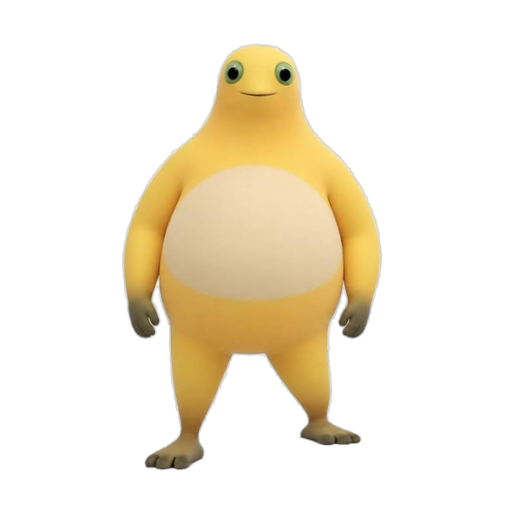
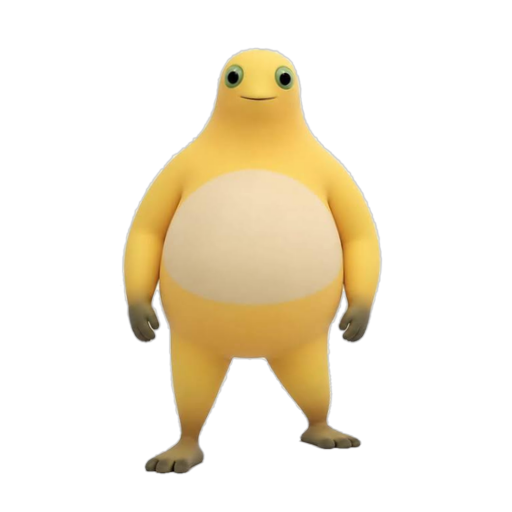
fix(frames): plant the support foot so idle and walk stop floating
The lowest opaque pixel drifted between 468 and 478 across idle and walk,
so the whole sprite bobbed up and down instead of the body moving over a
planted foot.

- Add a grounding pass to tools/frames/generate.py: whole-pixel
  translation that anchors every idle/walk frame at y=474 (idempotent,
  lossless, keeps the lateral waddle).
- Extend the frame-pack test to pin the support foot for those actions.

diff --git a/src/frame-pack.test.ts b/src/frame-pack.test.ts
@@ -154,6 +154,16 @@ describe("frame pack", () => {
     }
   });
 
+  it("plants the support foot for the grounded actions", () => {
+    for (const action of ["idle", "walk"] as const) {
+      for (let index = 0; index < FRAMES_PER_ACTION; index += 1) {
+        const file = join(PACK, action, `${String(index).padStart(3, "0")}.png`);
+        const { bottom } = opaqueBounds(decodePng(file));
+        expect(bottom, `${action}/${index} support foot`).toBe(474);
+      }
+    }
+  });
+
   it("keeps the public copy byte-identical to the source pack", () => {
     const hash = (file: string) => createHash("sha256").update(readFileSync(file)).digest("hex");
     for (const action of ACTIONS) {

diff --git a/tools/frames/generate.py b/tools/frames/generate.py
@@ -243,10 +243,36 @@ def check_pack(root: Path) -> list[str]:
     return problems
 
 
+# ------------------------------------------------------------------- anchoring
+
+
+def build_grounded(action: str) -> dict[str, np.ndarray]:
+    """Plant the support foot on GROUND_Y for every frame of `action`.
+
+    idle and walk were shipped with the lowest opaque pixel drifting between
+    468 and 478, so the sprite floated up and down instead of the body bobbing
+    over a planted foot.  A whole-pixel translation fixes that without touching
+    a single texel; running it twice is a no-op.
+    """
+    frames: dict[str, np.ndarray] = {}
+    for path in sorted((FRAME_ROOT / action).glob("*.png")):
+        frame = load_rgba(path)
+        _, bottom, _, _ = subject_bounds(frame)
+        shift = int(round(GROUND_Y)) - bottom
+        xs, ys = grid()
+        frames[path.stem] = warp(frame, xs, ys - shift)
+    return frames
+
+
 # ------------------------------------------------------------------------ main
 
 
-BUILDERS = {"happy": build_happy, "sit": build_sit}
+BUILDERS = {
+    "happy": build_happy,
+    "sit": build_sit,
+    "idle": lambda: build_grounded("idle"),
+    "walk": lambda: build_grounded("walk"),
+}
 
 
 def main(argv: list[str]) -> int:
